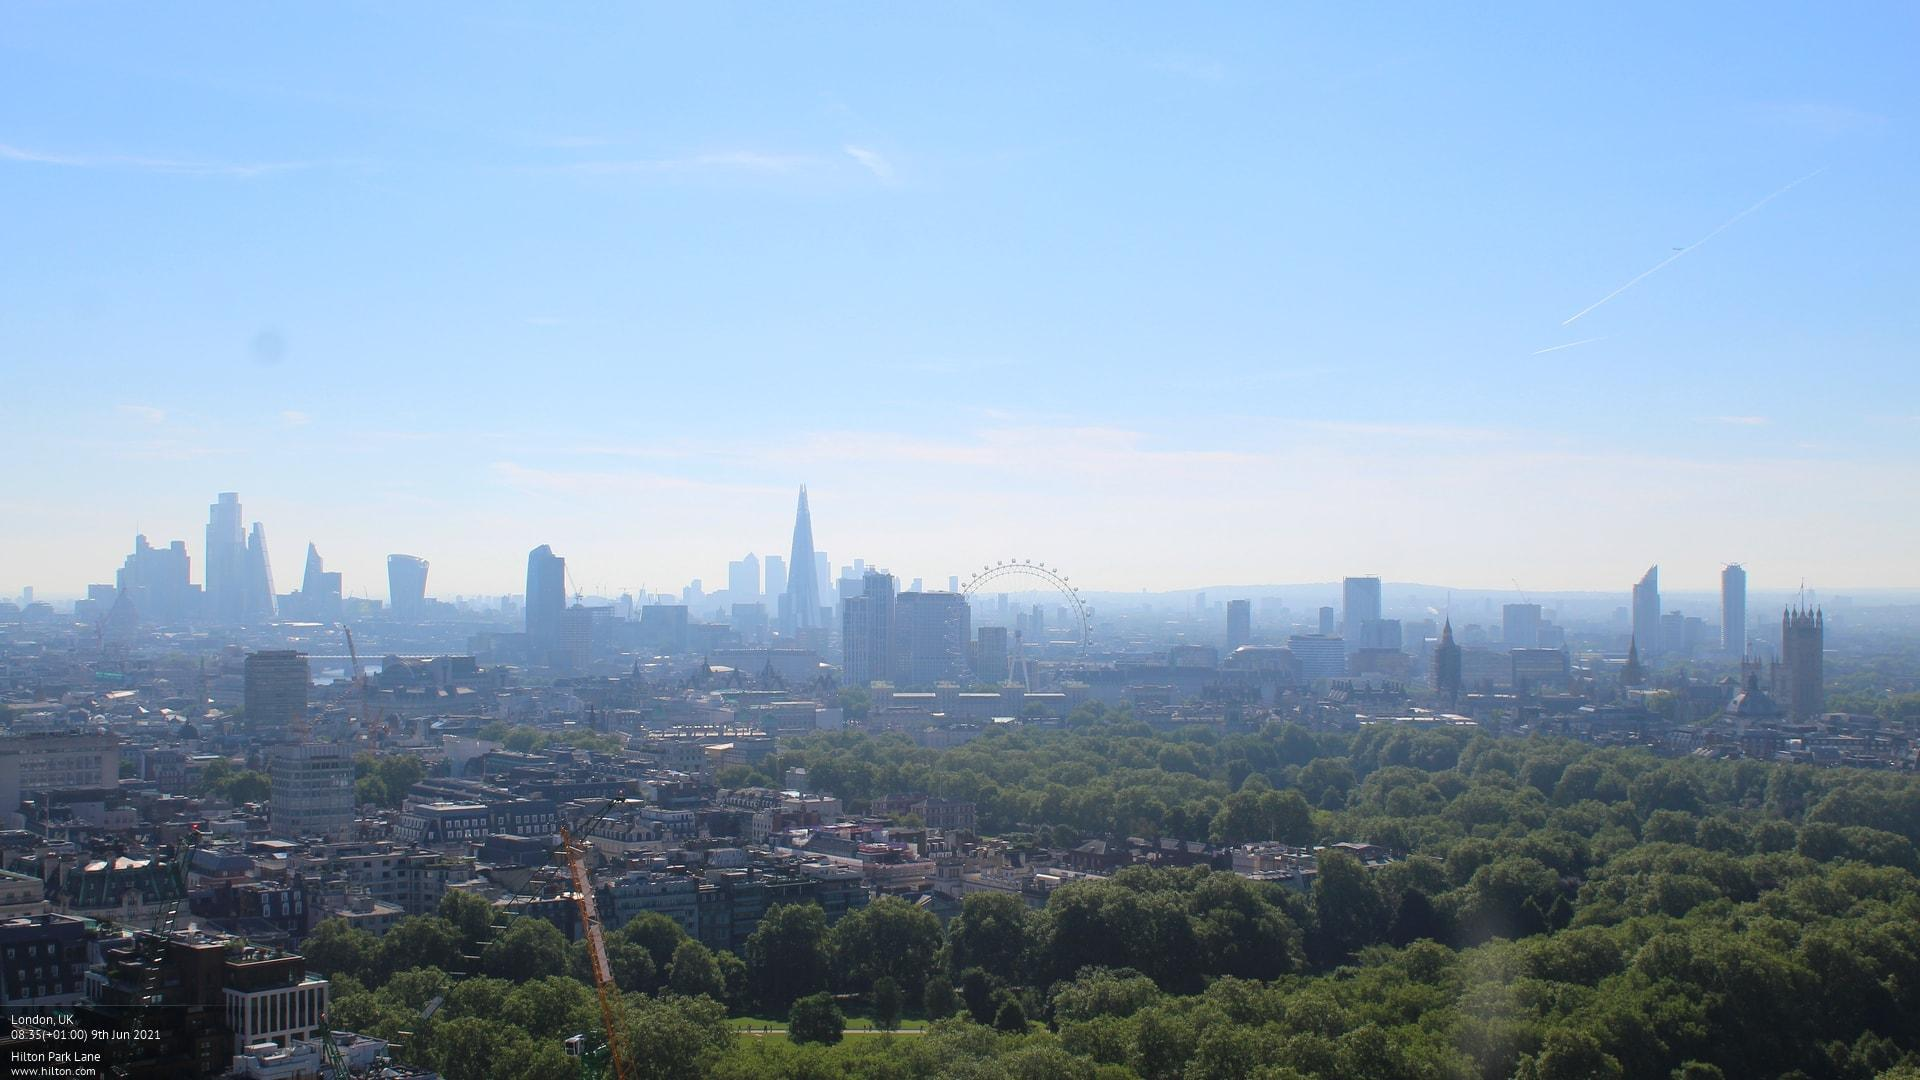
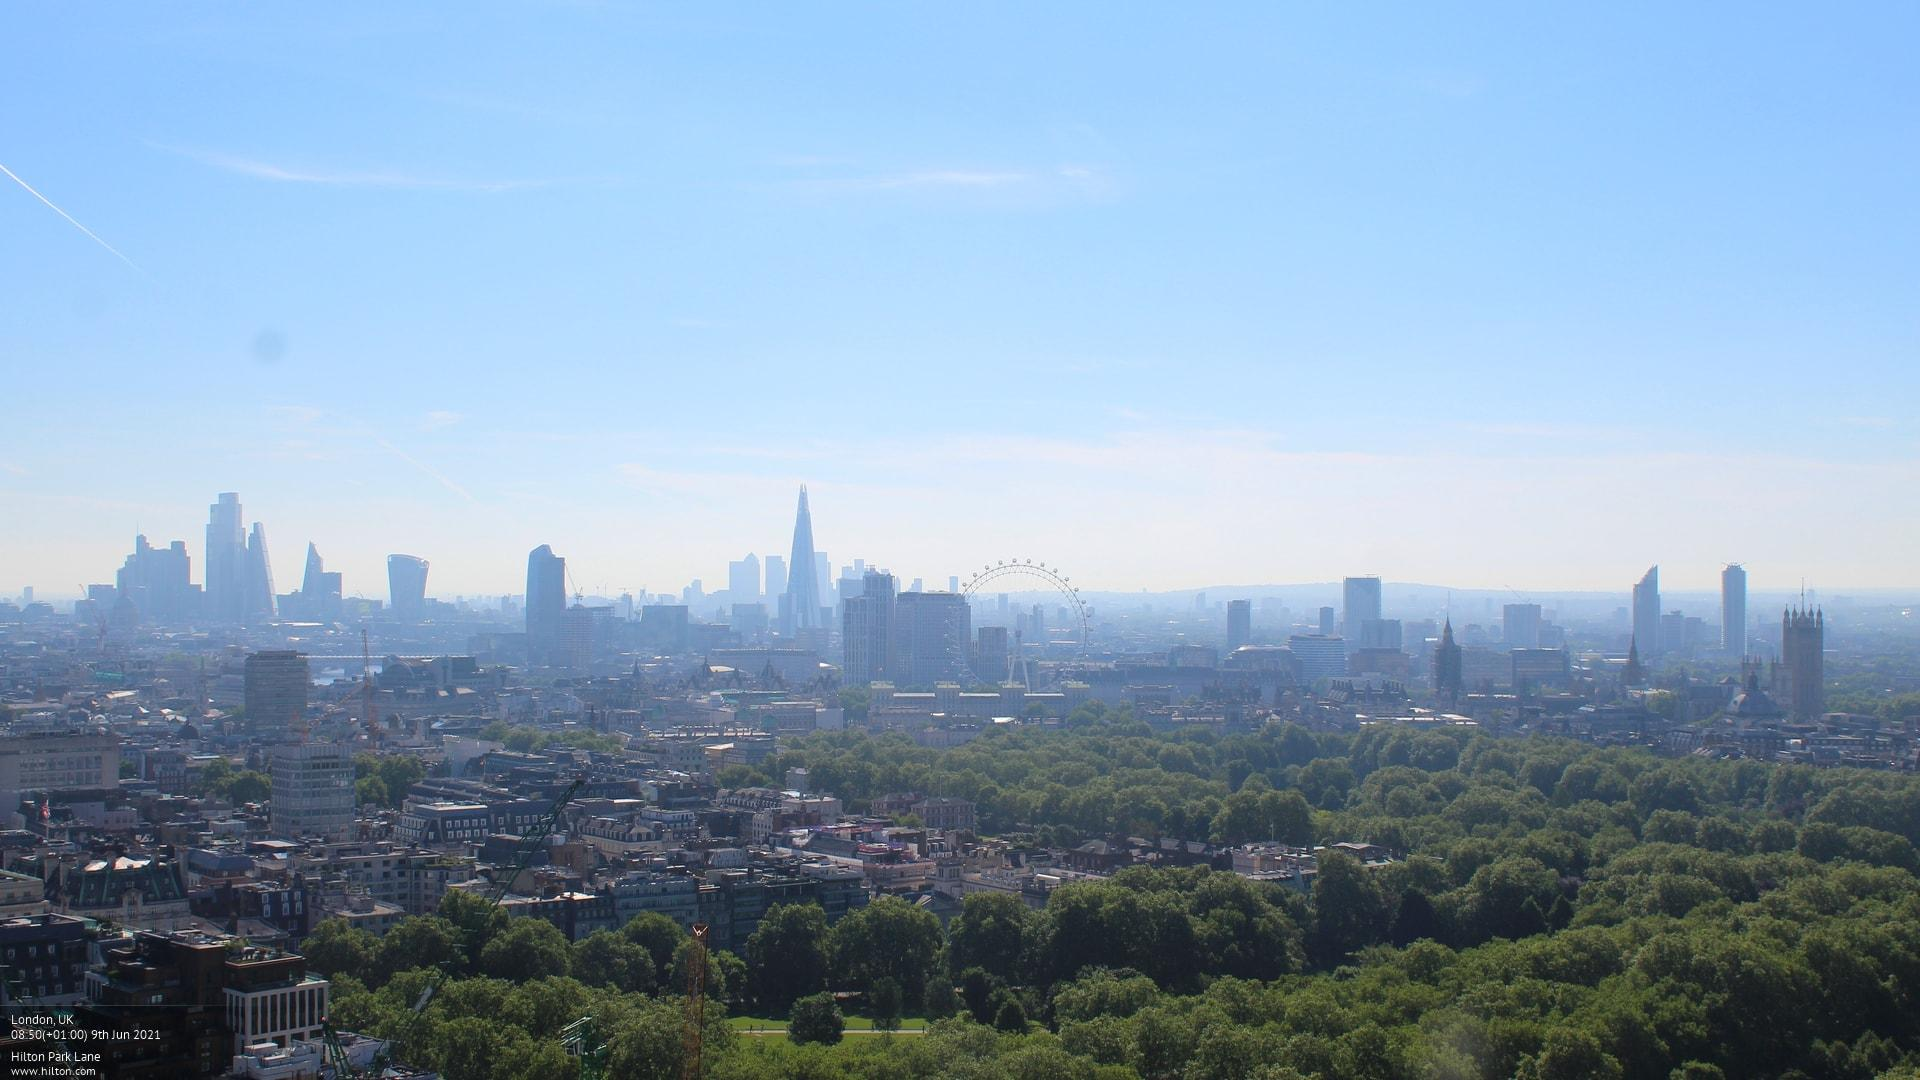
updates shard west link

diff --git a/web_scrape.py b/web_scrape.py
@@ -6,7 +6,7 @@ import requests
 
 image_url1 = 'https://images-webcams.windy.com/64/1512053164/current/full/1512053164.jpg' #london eye
 image_url2 = 'https://images-webcams.windy.com/69/1512053169/current/full/1512053169.jpg' #westminster hall
-image_url3 = 'https://api.deckchair.com/v1/viewer/image/60bdd58beea25f000183056b' #shard west
+image_url3 = 'https://images-webcams.windy.com/54/1490712854/current/full/1490712854.jpg' #shard west
 image_url4 = 'https://images-webcams.windy.com/44/1222340244/current/full/1222340244.jpg' #park tower knightsbridge
 image_url5 = 'https://images-webcams.windy.com/08/1576526008/current/full/1576526008.jpg' #hilton park lane
 image_url6 = 'https://s3-eu-west-1.amazonaws.com/jamcams.tfl.gov.uk/00001.04502.jpg' #traffic westminister
